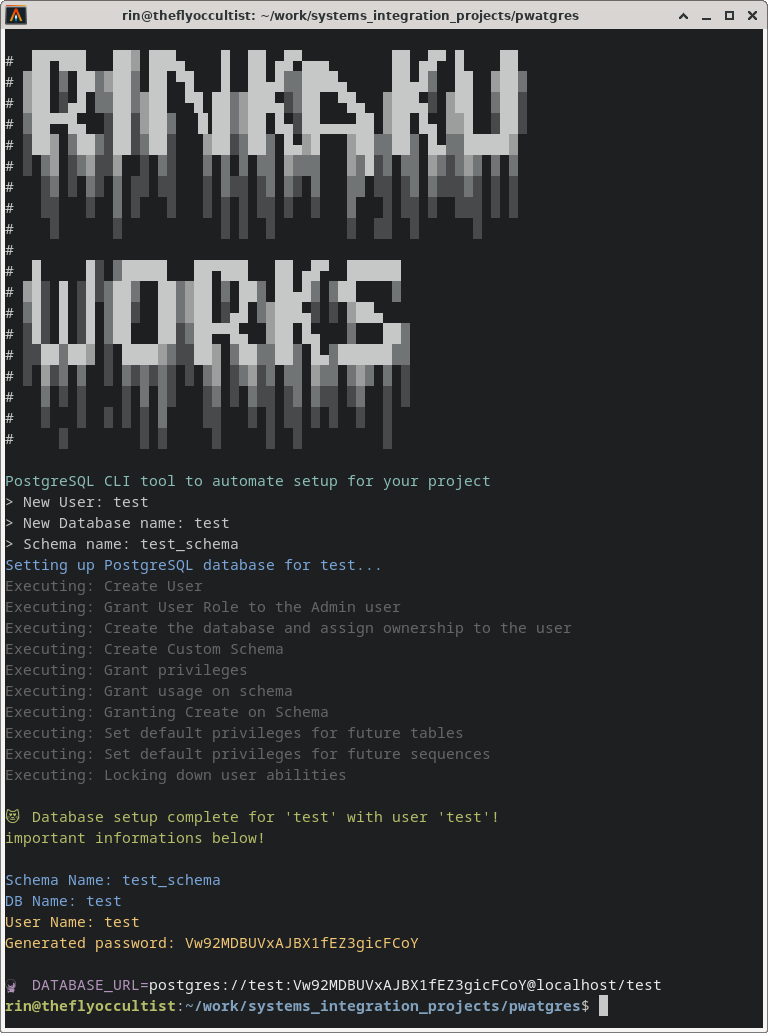
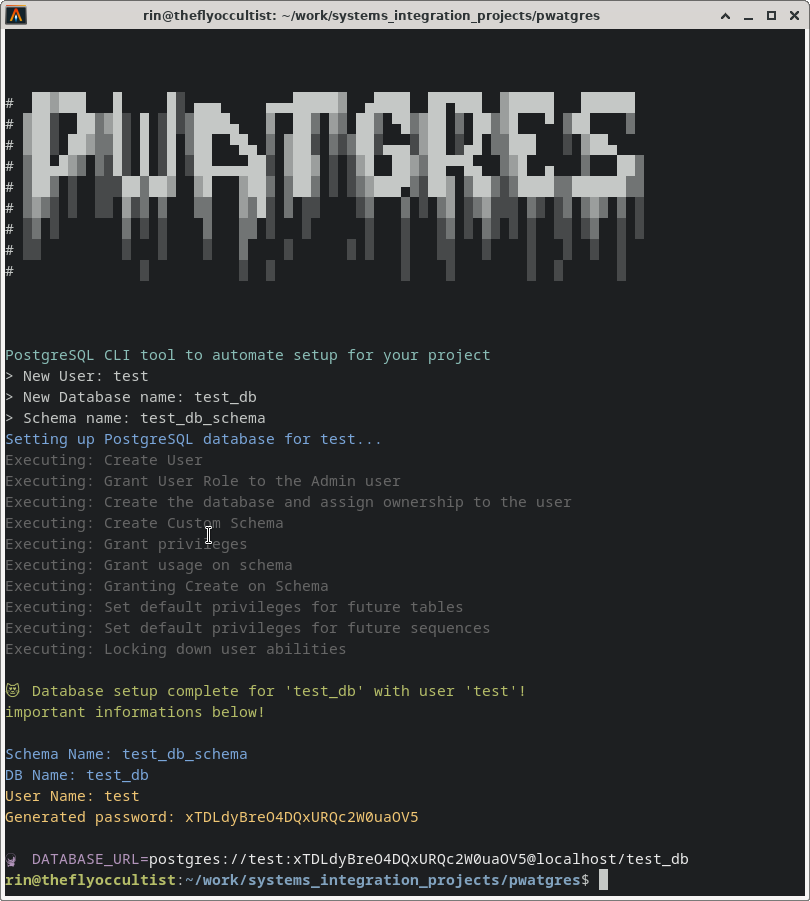
docs update pwatgres

Changed region(s): [[0.0, 0.0, 1.0, 1.0], [0.6562, 0.5905, 0.6875, 0.6215], [0.5312, 0.7458, 0.5625, 0.7769]]

diff --git a/pwatgres/pg_user.rb b/pwatgres/pg_user.rb
@@ -7,25 +7,19 @@ require 'readline'
 require 'securerandom'
 
 puts("
-#  ██▀███   ██▓ ███▄    █  ██ ▄█▀▄▄▄       ██ ▄█▀ █    ██
-# ▓██ ▒ ██▒▓██▒ ██ ▀█   █  ██▄█▒▒████▄     ██▄█▒  ██  ▓██▒
-# ▓██ ░▄█ ▒▒██▒▓██  ▀█ ██▒▓███▄░▒██  ▀█▄  ▓███▄░ ▓██  ▒██░
-# ▒██▀▀█▄  ░██░▓██▒  ▐▌██▒▓██ █▄░██▄▄▄▄██ ▓██ █▄ ▓▓█  ░██░
-# ░██▓ ▒██▒░██░▒██░   ▓██░▒██▒ █▄▓█   ▓██▒▒██▒ █▄▒▒█████▓
-# ░ ▒▓ ░▒▓░░▓  ░ ▒░   ▒ ▒ ▒ ▒▒ ▓▒▒▒   ▓▒█░▒ ▒▒ ▓▒░▒▓▒ ▒ ▒
-#   ░▒ ░ ▒░ ▒ ░░ ░░   ░ ▒░░ ░▒ ▒░ ▒   ▒▒ ░░ ░▒ ▒░░░▒░ ░ ░
-#   ░░   ░  ▒ ░   ░   ░ ░ ░ ░░ ░  ░   ▒   ░ ░░ ░  ░░░ ░ ░
-#    ░      ░           ░ ░  ░        ░  ░░  ░      ░
-#
-#  █     █░ ▒█████   ██▀███   ██ ▄█▀  ██████
-# ▓█░ █ ░█░▒██▒  ██▒▓██ ▒ ██▒ ██▄█▒ ▒██    ▒
-# ▒█░ █ ░█ ▒██░  ██▒▓██ ░▄█ ▒▓███▄░ ░ ▓██▄
-# ░█░ █ ░█ ▒██   ██░▒██▀▀█▄  ▓██ █▄   ▒   ██▒
-# ░░██▒██▓ ░ ████▓▒░░██▓ ▒██▒▒██▒ █▄▒██████▒▒
-# ░ ▓░▒ ▒  ░ ▒░▒░▒░ ░ ▒▓ ░▒▓░▒ ▒▒ ▓▒▒ ▒▓▒ ▒ ░
-#   ▒ ░ ░    ░ ▒ ▒░   ░▒ ░ ▒░░ ░▒ ▒░░ ░▒  ░ ░
-#   ░   ░  ░ ░ ░ ▒    ░░   ░ ░ ░░ ░ ░  ░  ░
-#     ░        ░ ░     ░     ░  ░         ░
+
+
+#  ██▓███   █     █░ ▄▄▄     ▄▄▄█████▓  ▄████  ██▀███  ▓█████   ██████
+# ▓██░  ██▒▓█░ █ ░█░▒████▄   ▓  ██▒ ▓▒ ██▒ ▀█▒▓██ ▒ ██▒▓█   ▀ ▒██    ▒
+# ▓██░ ██▓▒▒█░ █ ░█ ▒██  ▀█▄ ▒ ▓██░ ▒░▒██░▄▄▄░▓██ ░▄█ ▒▒███   ░ ▓██▄
+# ▒██▄█▓▒ ▒░█░ █ ░█ ░██▄▄▄▄██░ ▓██▓ ░ ░▓█  ██▓▒██▀▀█▄  ▒▓█  ▄   ▒   ██▒
+# ▒██▒ ░  ░░░██▒██▓  ▓█   ▓██▒ ▒██▒ ░ ░▒▓███▀▒░██▓ ▒██▒░▒████▒▒██████▒▒
+# ▒▓▒░ ░  ░░ ▓░▒ ▒   ▒▒   ▓▒█░ ▒ ░░    ░▒   ▒ ░ ▒▓ ░▒▓░░░ ▒░ ░▒ ▒▓▒ ▒ ░
+# ░▒ ░       ▒ ░ ░    ▒   ▒▒ ░   ░      ░   ░   ░▒ ░ ▒░ ░ ░  ░░ ░▒  ░ ░
+# ░░         ░   ░    ░   ▒    ░      ░ ░   ░   ░░   ░    ░   ░  ░  ░
+#              ░          ░  ░              ░    ░        ░  ░      ░
+
+
   ")
 
 # Prompt user for input
